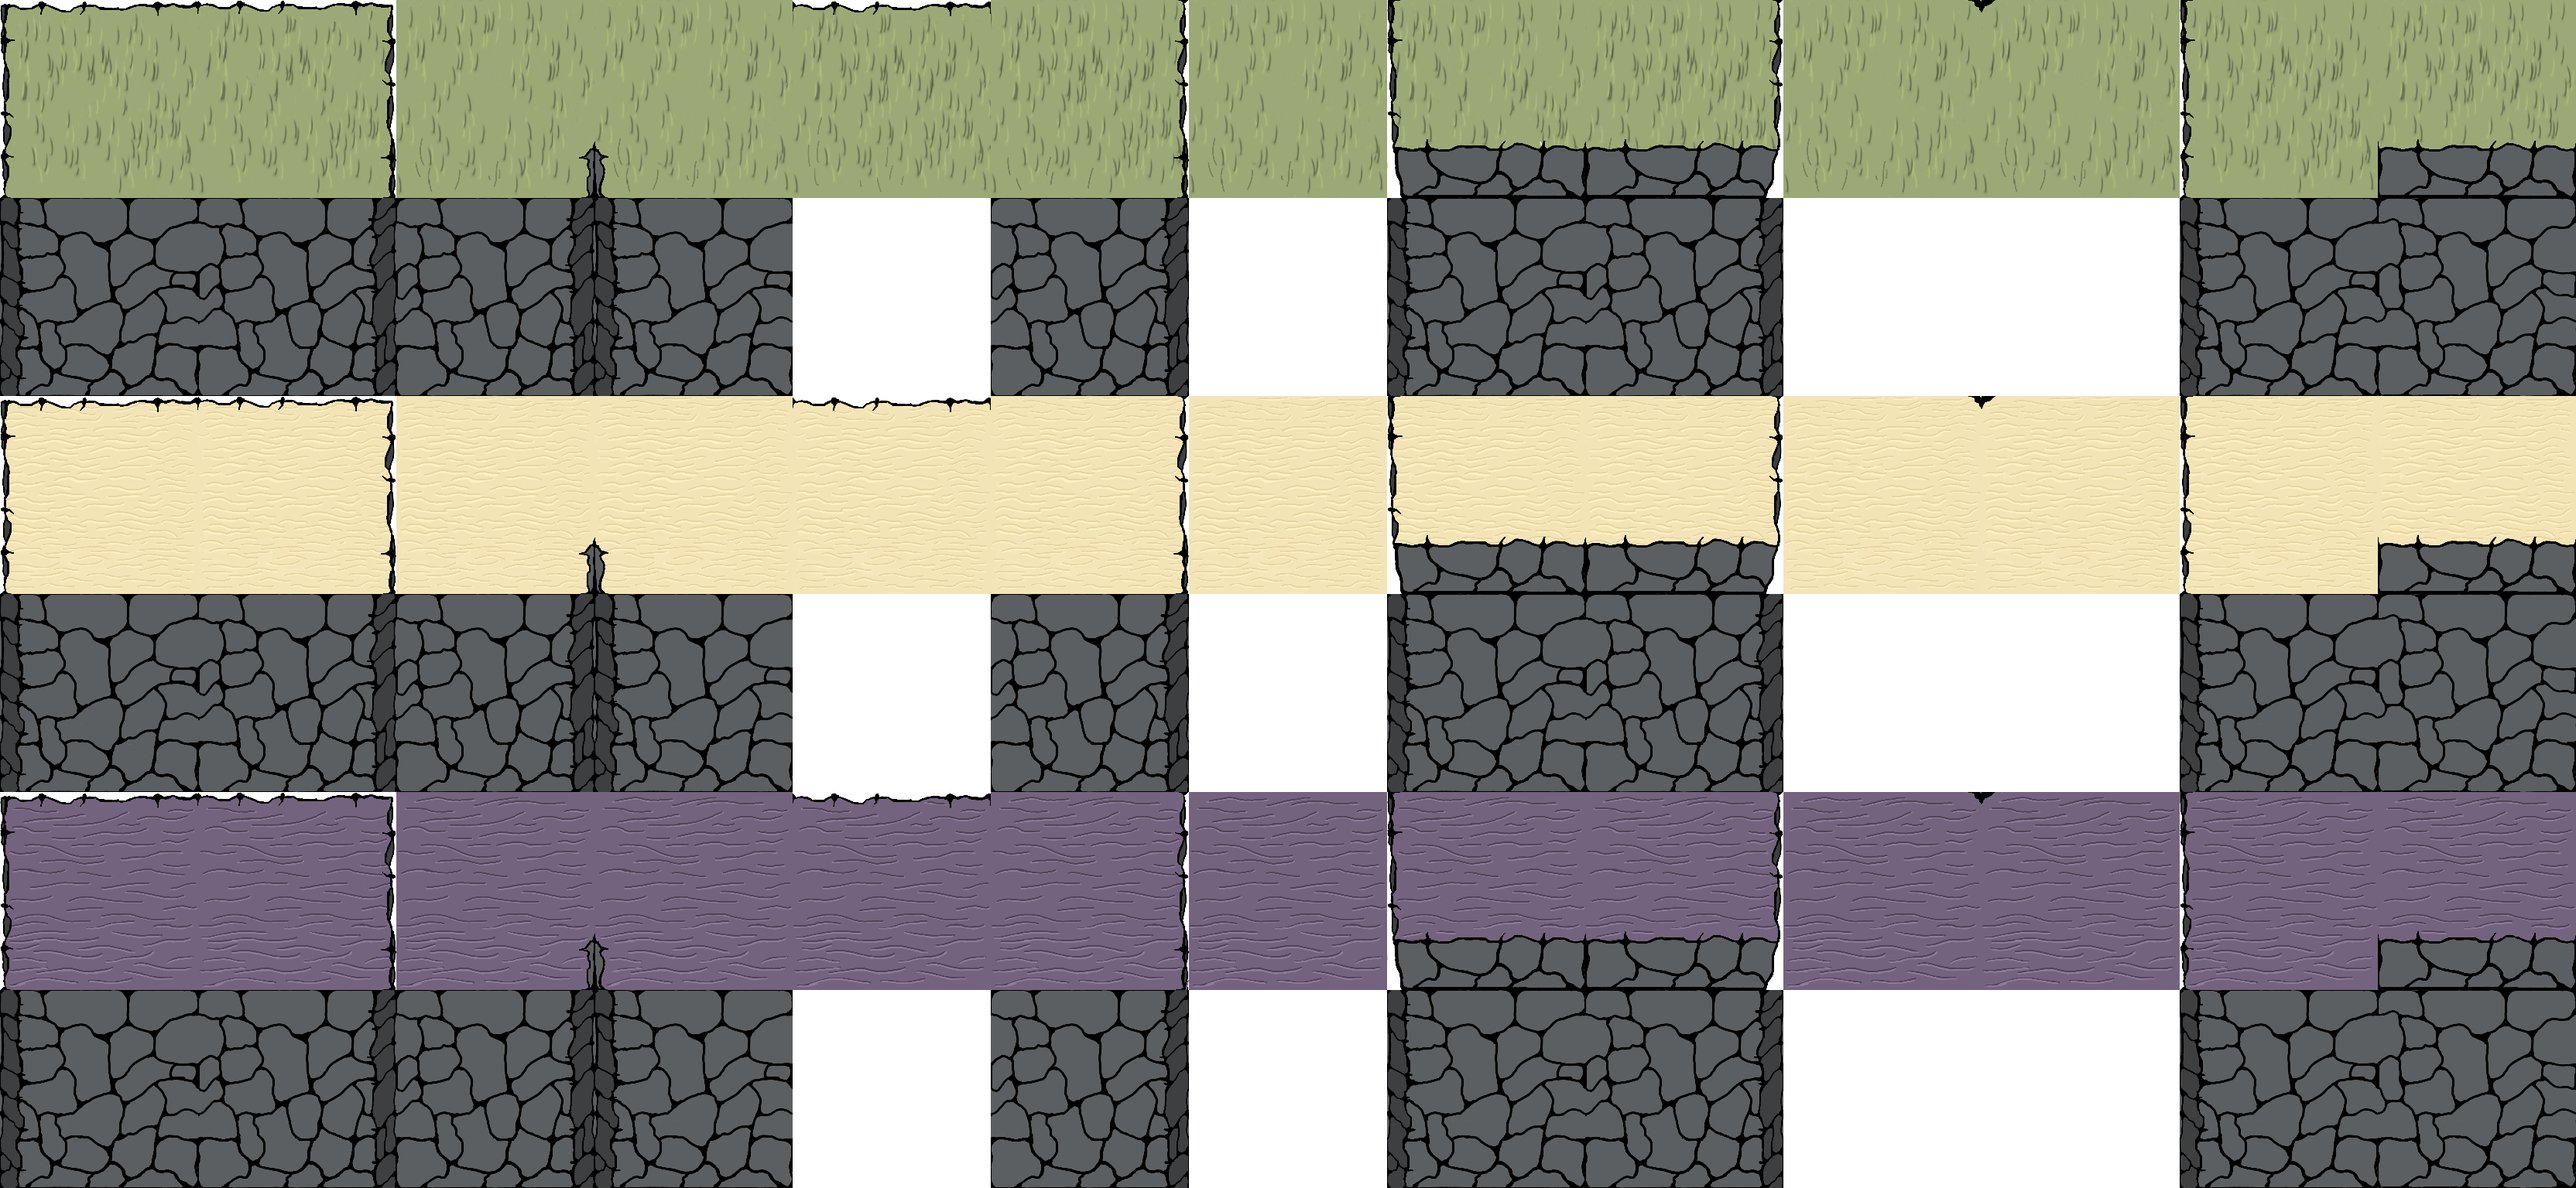
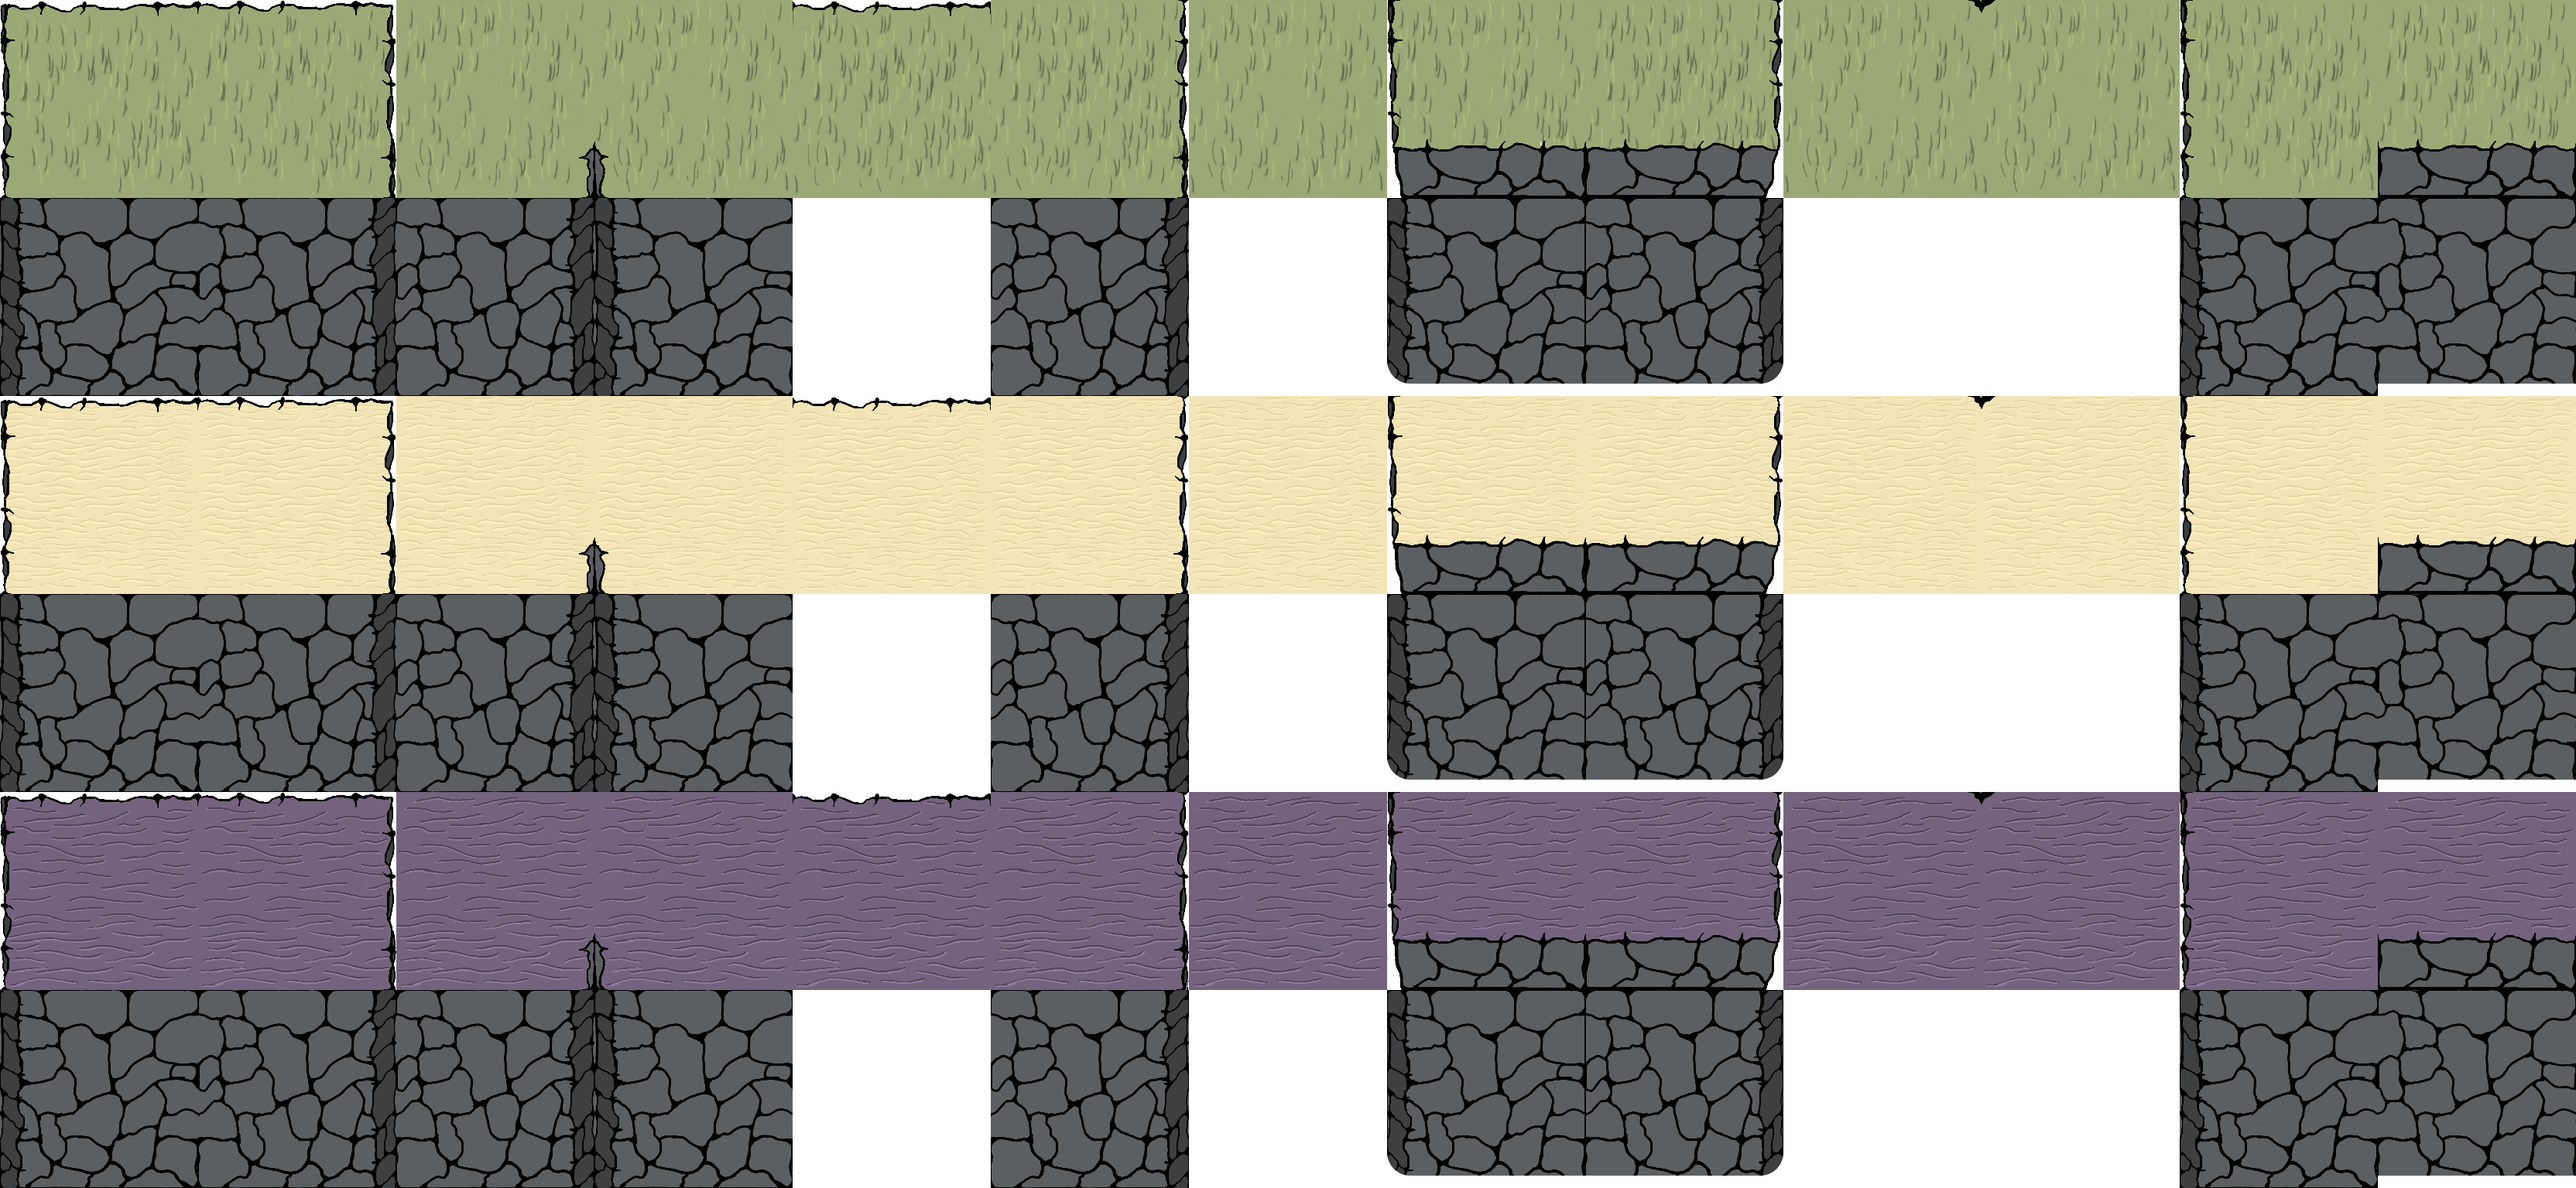
adjust texture for cliff

diff --git a/TechnicalPrototype/core/assets/levels/updatedTiledSet.tsx b/TechnicalPrototype/core/assets/levels/updatedTiledSet.tsx
@@ -65,9 +65,9 @@
  <tile id="62" type="Enemy"/>
  <wangsets>
   <wangset name="Land Set" type="corner" tile="28">
-   <wangcolor name="Cliff" color="#ff0000" tile="34" probability="1"/>
+   <wangcolor name="LOW Land" color="#ff0000" tile="34" probability="1"/>
    <wangcolor name="Sea" color="#00ff00" tile="41" probability="1"/>
-   <wangcolor name="Sand" color="#0000ff" tile="48" probability="1"/>
+   <wangcolor name="HIGH Cliff" color="#0000ff" tile="48" probability="1"/>
    <wangtile tileid="28" wangid="0,2,0,1,0,2,0,2"/>
    <wangtile tileid="29" wangid="0,2,0,2,0,1,0,2"/>
    <wangtile tileid="30" wangid="0,1,0,2,0,1,0,1"/>
